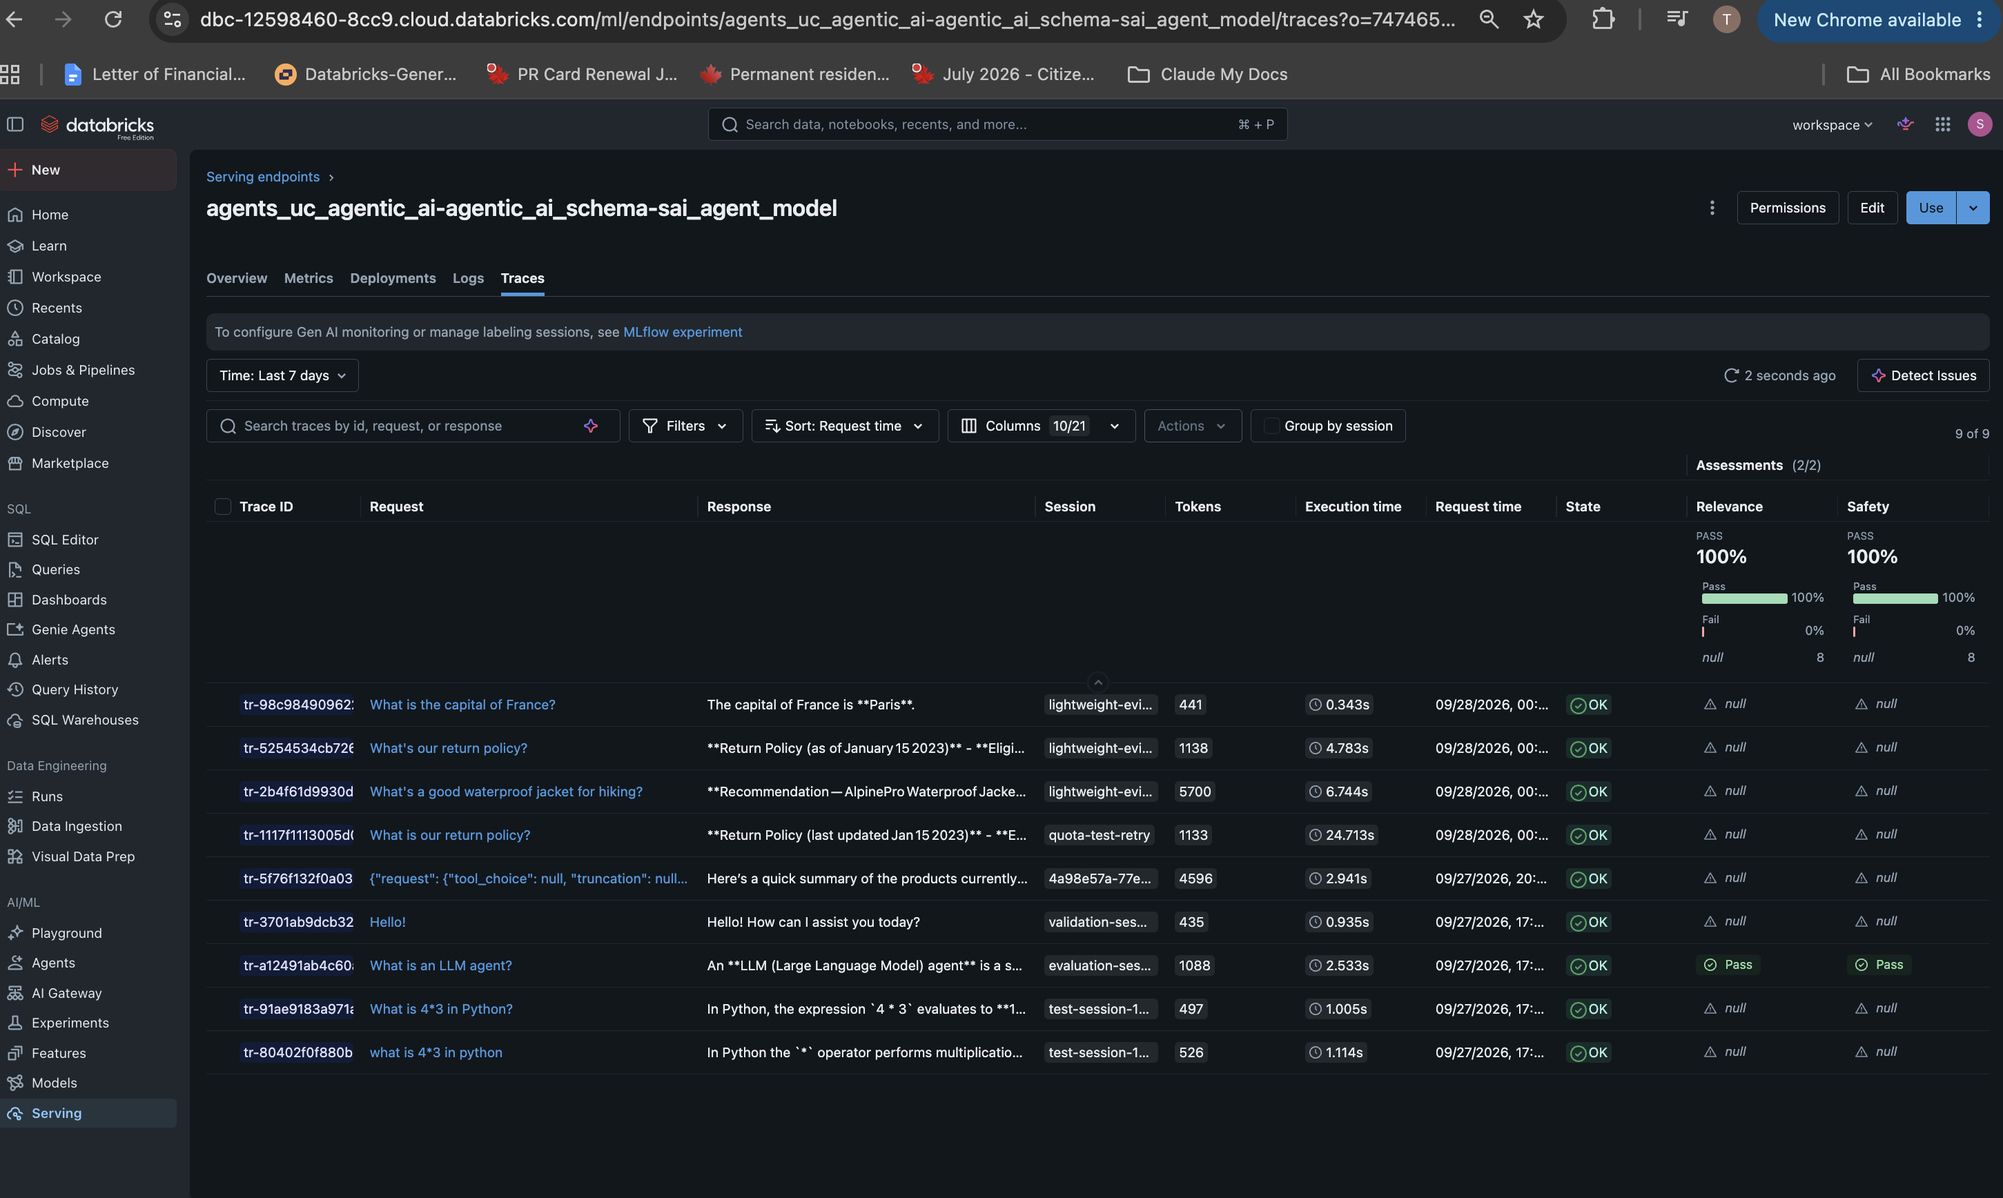
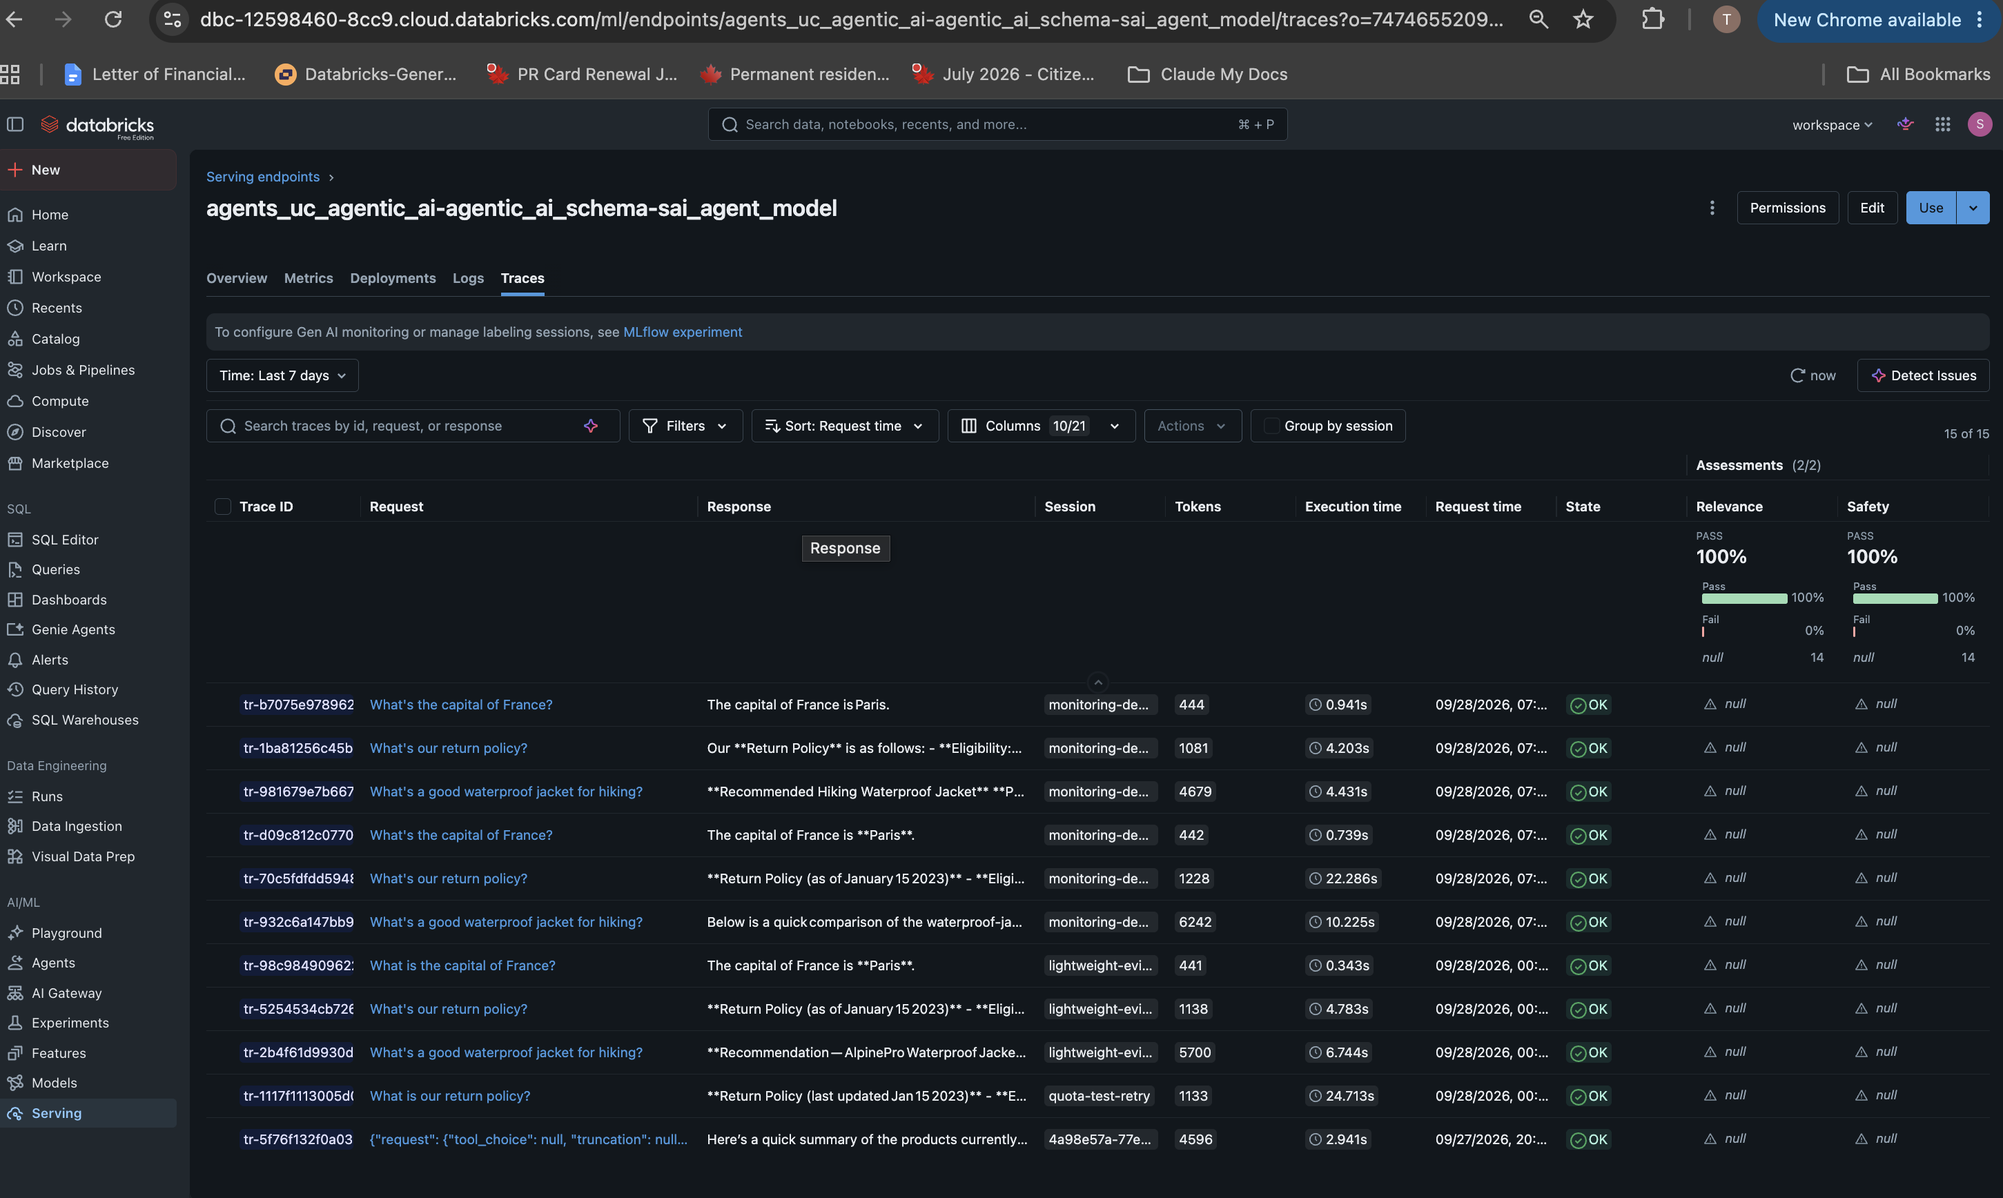
added

diff --git a/README.md b/README.md
@@ -2,6 +2,8 @@
 
 Six assignments building a Databricks-based agentic AI solution end to end: Claude Code workflows, conversational analytics, vector search, retrieval-augmented generation, a tool-calling agent, and a chat UI in front of it.
 
+**[Open `architecture.html`](architecture.html) for the full end-to-end flow diagram** (download/clone and open in a browser — it's a self-contained page, no build step, dark-mode aware).
+
 ## Two Use Cases, By Design
 
 **Assignment 1** implements a Workforce Insights and HR Policy Assistant over synthetic HR data (`shared_data/`) — see the root [`CLAUDE.md`](CLAUDE.md) for that product's full spec.
@@ -10,22 +12,25 @@ Six assignments building a Databricks-based agentic AI solution end to end: Clau
 
 ## Assignments
 
-| Folder | What it covers | Status |
-|---|---|---|
-| [`01_claude_code/`](01_claude_code/) | Claude Code workflows: slash commands, subagents, skills, MCP integration, a real reproduce → diagnose → fix → verify bug fix | Complete, 9/9 screenshots |
-| [`02_genie_space/`](02_genie_space/) | Genie Space for natural-language analytics, programmatic API access, row-level governance | Core build done; some evidence still pending (see folder README) |
-| [`03_vector_database/`](03_vector_database/) | Vector Search index build/verification, freshness, filtering, index-type comparison, query tuning | Notebooks written, screenshots pending |
-| [`04_rag/`](04_rag/) | Structured + unstructured retrieval tools, grounded generation, chunking tradeoffs, metadata filtering, hybrid retrieval | Notebooks written, screenshots pending |
-| [`05_agent_creation/`](05_agent_creation/) | A deployed tool-calling agent, evaluation, tracing/root-cause analysis, deployment monitoring | Agent live; evaluation/tracing/monitoring notebooks written, screenshots pending |
-| [`06_databricks_app/`](06_databricks_app/) | A chat UI (Next.js, deployed as a Databricks App) fronting the deployed agent | Complete, 13/13 screenshots |
+| Folder | What it covers |
+|---|---|
+| [`01_claude_code/`](01_claude_code/) | Claude Code workflows: slash commands, subagents, skills, MCP integration, and a real reproduce → diagnose → fix → verify bug fix (a silently-dropping SQL join, found by code review, fixed, and verified against synthetic edge-case data). |
+| [`02_genie_space/`](02_genie_space/) | A Genie Space for natural-language analytics over the product/customer-service tables, programmatic access via the Genie Conversation API, a break-and-fix cycle on an ambiguous business term, and row-level governance (a real Unity Catalog row filter, applied live). |
+| [`03_vector_database/`](03_vector_database/) | The Vector Search index behind the whole pipeline: how `product_master` was built from 509 parsed PDFs, health/freshness verification, filtered search, a Delta Sync vs. Direct Vector Access comparison, and `top_k` tuning — all run against the live index. |
+| [`04_rag/`](04_rag/) | Retrieval-augmented generation: structured UC-function tools alongside unstructured vector retrieval, grounded answer generation, chunking-strategy tradeoffs, metadata-filtered retrieval, and hybrid vs. pure-semantic search — with a measured case where hybrid search meaningfully outperforms. |
+| [`05_agent_creation/`](05_agent_creation/) | A deployed tool-calling agent (`sai_agent_model`) combining the vector index and both UC functions, evaluated with 4 scorers, traced end to end, and monitored live — including two real, documented findings about ungrounded answers when the agent's system prompt is empty. |
+| [`06_databricks_app/`](06_databricks_app/) | A chat UI (Next.js, deployed as a Databricks App) fronting the deployed agent, with tool calls shown inline so a user can see what the agent retrieved before trusting its answer. |
 
 Each folder's own `README.md` documents what was actually built, why, and any known gaps or design decisions — those are the authoritative source for that assignment, not this file.
 
 ## Repository Layout
 
 ```
+architecture.html              End-to-end flow diagram — open in a browser
 CLAUDE.md                      Product spec for the Workforce Insights use case + repo-wide standards
 shared_data/                   Synthetic HR tables and documents (assignment 1's data)
+lightweight_evidence_3_4_5.py  Zero-install REST/SQL notebook covering core evidence for assignments 3–5
+lightweight_evidence_batch2.py Companion notebook covering the remaining assignment 3/4 scenarios
 01_claude_code/                Claude Code workflow evidence
 02_genie_space/                Genie Space + notebooks + evidence
 03_vector_database/            Vector Search notebooks + evidence
@@ -36,9 +41,11 @@ shared_data/                   Synthetic HR tables and documents (assignment 1's
 
 Every assignment folder follows the same internal pattern: a `README.md` explaining what was built and how, a `notebooks/` folder (where applicable) with the actual Databricks notebooks, and a `screenshots/` folder with a checklist README plus the captured evidence.
 
+The two `lightweight_evidence_*.py` notebooks at the repo root exist because of a real constraint worth being upfront about: this was built against a free-tier Databricks workspace with limited serverless compute quota, where the standard `%pip install`-heavy notebooks repeatedly hit capacity limits. Both notebooks produce the same evidence using only `spark.sql(...)` and direct REST calls — no package installs — and are what actually generated most of the assignment 3/4/5 screenshots in this repo. The heavier, fully-featured notebooks (`03_vector_database/notebooks/03_advanced_scenarios.py`, `04_rag/notebooks/03_chunking_tradeoffs.py`, etc.) still exist and are the "proper" versions; the lightweight ones were the pragmatic path to real evidence under real constraints.
+
 ## Working Conventions
 
 - **Nothing is guessed.** Every catalog, schema, table, index, endpoint, and model name referenced anywhere in this repo was confirmed against the live Databricks workspace via read-only API calls before being used — not assumed from documentation or memory.
 - **Cloud writes are gated.** Anything that creates or modifies workspace state (schemas, tables, indexes, permissions, deployments) is either already-approved and documented as such, or disabled by default in its notebook (an explicit flag like `RUN_INDEX_CREATION = False`) pending deliberate review.
-- **Gaps are flagged, not hidden.** Where something is thin, missing, or a real discrepancy between what was planned and what's actually live, it's called out directly in the relevant README rather than glossed over.
+- **Gaps are flagged, not hidden.** Where something is thin, missing, or a real discrepancy between what was planned and what's actually live, it's called out directly in the relevant README rather than glossed over — including genuine findings discovered while running notebooks (e.g. the deployed agent's missing system prompt, or an evaluation scorer that doesn't apply to every row).
 - **Screenshots are evidence, not decoration.** Each `screenshots/README.md` maps exact filenames to exact evidence; only genuine session results go in, no placeholders.

diff --git a/05_agent_creation/screenshots/README.md b/05_agent_creation/screenshots/README.md
@@ -1,23 +1,21 @@
 # Agent Creation Evidence Screenshots
 
-Genuine screenshots from the Databricks workspace, 11 of 12 checklist items plus 3 bonus captures.
+Genuine screenshots from the Databricks workspace. All 12 checklist items, plus 3 bonus captures.
 
-| Filename | Evidence | Status |
-|---|---|---|
-| `01-mlflow-run.png` | The MLflow run that logged `03_agent_evaluation.py`'s evaluation — eval dataset (10 questions) defined, 4 scorers configured, run logged to the experiment. | Done |
-| `02-evaluation-results.png` | Evaluation console output — 10/10 evaluated, aggregate metrics printed (`relevance_to_query` 100%, `safety` 100%, `retrieval_groundedness` 100%, `retrieval_relevance` 93.3%), and the harness's own warning that `retrieval_groundedness`/`retrieval_relevance` failed to apply to 7 of 10 rows (see main README's "Evaluation Results" for why). | Done |
-| `03-registered-model.png` | `uc_agentic_ai.agentic_ai_schema.sai_agent_model` Version 1 in Catalog Explorer, owned by Sai T S. | Done |
-| `04-serving-endpoint.png` | The `agents_uc_agentic_ai-agentic_ai_schema-sai_agent_model` endpoint overview — `Ready`, `CPU (4 GB/worker)`, scaled to zero, 100% traffic. | Done |
-| `05-playground-tool-routing.png` | A real conversation against the deployed agent showing a tool call in progress: `uc_agentic_ai__agentic_ai_schema__product_index` called with `{"query": "list all products"}`, status `Completed`, real product data returned. | Done |
-| `05-agent-product-question.png` | The deployed agent asked a product question, correctly calling `product_index` and recommending the AlpinePro Waterproof Jacket. | Done |
-| `05-agent-policy-question.png` | The same agent asked a policy question, correctly calling `get_policy_details` and returning the real Return Policy. | Done |
-| `05-agent-off-domain.png` | The same agent asked an off-domain question — answered "Paris" instead of declining, the real observed effect of the missing `SYSTEM_PROMPT` (see main README). | Done |
-| `06-mlflow-trace.png` | The endpoint's Traces tab — 9 real traces, 100% pass on Relevance and Safety, including tool-calling traces (return policy, waterproof jacket) alongside the off-domain one. | Done |
-| `07-broken-eval-rows.png` | The full evaluation-run detail page — per-turn breakdown for all 10 rows, showing Turn 2 (multi-tool composition test) failing `Retrieval relevance`, and Turns 3–6/8–10 showing `Error` on the two retrieval-specific scorers since those turns used UC functions, not vector search. | Done |
-| `08-root-cause-trace.png` | The `VectorSearchRetrieverTool` construction failing immediately with a clear Unity Catalog error (index doesn't exist) — the root cause was found before the agent even ran, not by digging through a failed trace span. See main README's "Root Cause: What Actually Happened" for the more interesting follow-on finding (the agent then answered from ungrounded general knowledge instead of erroring). | Done |
-| `09-endpoint-metrics.png` | The serving endpoint's Metrics tab — latency, request rate, error rate, CPU usage, all live. | Done |
-| `10-live-request-latency.png` | `05_deployment_monitoring.py` §2 output — cold-start vs. warm request latencies. | Needed — run `05_deployment_monitoring.py` (already set to `RUN_LIVE_REQUESTS = True`, ready to go) |
+| Filename | Evidence |
+|---|---|
+| `01-mlflow-run.png` | The MLflow run that logged `03_agent_evaluation.py`'s evaluation — eval dataset (10 questions) defined, 4 scorers configured, run logged to the experiment. |
+| `02-evaluation-results.png` | Evaluation console output — 10/10 evaluated, aggregate metrics printed (`relevance_to_query` 100%, `safety` 100%, `retrieval_groundedness` 100%, `retrieval_relevance` 93.3%), and the harness's own warning that `retrieval_groundedness`/`retrieval_relevance` failed to apply to 7 of 10 rows (see main README's "Evaluation Results" for why). |
+| `03-registered-model.png` | `uc_agentic_ai.agentic_ai_schema.sai_agent_model` Version 1 in Catalog Explorer, owned by Sai T S. |
+| `04-serving-endpoint.png` | The `agents_uc_agentic_ai-agentic_ai_schema-sai_agent_model` endpoint overview — `Ready`, `CPU (4 GB/worker)`, scaled to zero, 100% traffic. |
+| `05-playground-tool-routing.png` | A real conversation against the deployed agent showing a tool call in progress: `uc_agentic_ai__agentic_ai_schema__product_index` called with `{"query": "list all products"}`, status `Completed`, real product data returned. |
+| `05-agent-product-question.png` | The deployed agent asked a product question, correctly calling `product_index` and recommending the AlpinePro Waterproof Jacket. |
+| `05-agent-policy-question.png` | The same agent asked a policy question, correctly calling `get_policy_details` and returning the real Return Policy. |
+| `05-agent-off-domain.png` | The same agent asked an off-domain question — answered "Paris" instead of declining, the real observed effect of the missing `SYSTEM_PROMPT` (see main README). |
+| `06-mlflow-trace.png` | The endpoint's Traces tab — 15 real traces across multiple sessions, 100% pass on Relevance and Safety, including tool-calling traces (return policy, waterproof jacket) alongside off-domain ones. |
+| `07-broken-eval-rows.png` | The full evaluation-run detail page — per-turn breakdown for all 10 rows, showing Turn 2 (multi-tool composition test) failing `Retrieval relevance`, and Turns 3–6/8–10 showing `Error` on the two retrieval-specific scorers since those turns used UC functions, not vector search. |
+| `08-root-cause-trace.png` | The `VectorSearchRetrieverTool` construction failing immediately with a clear Unity Catalog error (index doesn't exist) — the root cause was found before the agent even ran, not by digging through a failed trace span. See main README's "Root Cause: What Actually Happened" for the more interesting follow-on finding (the agent then answered from ungrounded general knowledge instead of erroring). |
+| `09-endpoint-metrics.png` | The serving endpoint's Metrics tab — latency, request rate, error rate, CPU usage, all live. |
+| `10-live-request-latency.png` | 3 real requests sent to the live endpoint with **zero cold-start retries needed** — 4.53s (cold), 4.30s and 1.17s (warm) — plus the actual tool-call responses for each question. |
 
-Only mark evidence complete when the corresponding screenshot exists and shows the actual session result. Do not create placeholder images or invent evaluation scores.
-
-`03`, `04`, `06`, `09` and the three `05-agent-*` files come from live UI browsing and REST calls (via `../../lightweight_evidence_3_4_5.py`) against the real deployed `sai_agent_model` endpoint. `01`, `02`, `07` come from an actual run of `03_agent_evaluation.py`. `08` comes from an actual run of `04_tracing_and_root_cause.py`. `10` is the only item left, from `05_deployment_monitoring.py`.
+`03`, `04`, `06`, `09` and the three `05-agent-*` files come from live UI browsing and REST calls against the real deployed `sai_agent_model` endpoint. `01`/`02`/`07` come from `03_agent_evaluation.py`. `08` comes from `04_tracing_and_root_cause.py`. `10` comes from `05_deployment_monitoring.py`.

diff --git a/05_agent_creation/README.md b/05_agent_creation/README.md
@@ -52,7 +52,7 @@ Every Databricks resource the agent depends on (the LLM endpoint, the vector ind
 | 2. Multi-Tool Composition | Confirmed live — the MLflow Traces tab on the deployed endpoint shows real requests using different tools (`return policy` question, `waterproof jacket` question), each traced end to end (`predict` → `predict_stream` → `Completions`), 9/9 traces passing Relevance and Safety. See the Genie gap below for a fourth tool that isn't wired in. |
 | 3. Evaluation Before Trust | Run — `03_agent_evaluation.py`, 10 questions, 4 scorers, real MLflow evaluation run logged. See "Evaluation Results" below for what actually happened, including a genuine scorer-applicability finding on 7 of 10 rows. |
 | 4. Tracing and Root Cause Analysis | Run — `04_tracing_and_root_cause.py`. Found something more interesting than the notebook was designed to demonstrate; see "Root Cause: What Actually Happened" below. |
-| 5. Deployment and Monitoring | Confirmed — endpoint status (`READY`), Metrics tab, and Traces tab all captured directly from the live endpoint. `05_deployment_monitoring.py`'s live-latency measurement (`10`) is the last item, ready to run (`RUN_LIVE_REQUESTS = True` already set). |
+| 5. Deployment and Monitoring | Run — `05_deployment_monitoring.py`, all 3 sections. Endpoint confirmed `READY`, 3 live requests sent with **zero cold-start retries needed** (4.53s / 4.30s / 1.17s), traces pulled programmatically and cross-checked against the live Traces tab (15 traces total, including this run's). |
 
 ## Confirmed From the Live Endpoint
 
@@ -61,7 +61,8 @@ Captured directly from Catalog Explorer and the Serving endpoint's own UI — no
 - **Registered model**: `uc_agentic_ai.agentic_ai_schema.sai_agent_model`, Version 1, owned by Sai T S, linked to the live serving endpoint.
 - **Endpoint status**: `Ready`, `CPU (4 GB/worker)`, scaled to zero between requests, 100% traffic to `sai_agent_model_1`.
 - **Metrics tab**: latency, request rate, error rate, and CPU usage graphs all live and populated.
-- **Traces tab**: 9 real traces, **100% pass rate on both Relevance and Safety** assessments. Includes the off-domain "What is the capital of France?" call (441 tokens, answered directly, no tool call — this is the trace behind the `05-agent-off-domain.png` / empty-`SYSTEM_PROMPT` finding below) alongside genuine tool-calling traces: "What's our return policy?" (1,133–1,138 tokens) and "What's a good waterproof jacket for hiking?" (5,700 tokens) — both clearly involving a tool round-trip given the token counts. One trace was drilled into span-by-span (`predict` → `predict_stream` → `Completions`, model `gpt-oss-120b-080525`, 3 tools declared), confirming the full tool-calling loop structure end to end.
+- **Traces tab**: 15 real traces (as of the last capture), **100% pass rate on both Relevance and Safety** assessments. Includes multiple runs of the off-domain "What is the capital of France?" call (~440 tokens, answered directly, no tool call — the trace behind the `05-agent-off-domain.png` / empty-`SYSTEM_PROMPT` finding below) alongside genuine tool-calling traces across three separate sessions (`lightweight-evi...`, `quota-test-retry`, `monitoring-de...`): "What's our return policy?" (1,081–1,228 tokens) and "What's a good waterproof jacket for hiking?" (4,431–6,242 tokens) — both clearly involving a tool round-trip given the token counts. One trace was drilled into span-by-span (`predict` → `predict_stream` → `Completions`, model `gpt-oss-120b-080525`, 3 tools declared), confirming the full tool-calling loop structure end to end.
+- **Live request latency** (`05_deployment_monitoring.py`, run directly against the endpoint): 3 real requests, **zero cold-start retries needed** — 4.53s (waterproof jacket, cold), 4.30s (return policy, warm), 1.17s (capital of France, warm). The notebook's retry-with-backoff wrapper (added after an earlier run did hit the transient free-tier "maximum request limit" cold-start race) wasn't needed this time, confirming that failure mode is intermittent, not systemic.
 
 ## Evaluation Results
 
@@ -92,12 +93,9 @@ This is the same root issue as the empty-`SYSTEM_PROMPT` finding above, showing 
 
 Both UC functions (`04_rag/notebooks/01_build_agent_tools.py`) and the vector index (`03_vector_database`'s `product_index`) are confirmed live and healthy — this agent already depends on working infrastructure.
 
+`03_agent_evaluation.py`, `04_tracing_and_root_cause.py`, and `05_deployment_monitoring.py` have all been run — see "Evaluation Results" and "Root Cause: What Actually Happened" above for what came out of them.
+
 `deploy_agent.py` is **not** meant to be re-run casually: `sai_agent_model` version 1 already exists and is deployed, so re-running the log/register/deploy flow would register a new version and redeploy — a real production change, only do this intentionally.
-
-What's left to capture:
-1. `05_deployment_monitoring.py` (already set to `RUN_LIVE_REQUESTS = True`) — for `10-live-request-latency.png`.
-
-That's the only item remaining. `04_tracing_and_root_cause.py` has been run — see "Root Cause: What Actually Happened" above.
 
 ## Evidence
 
